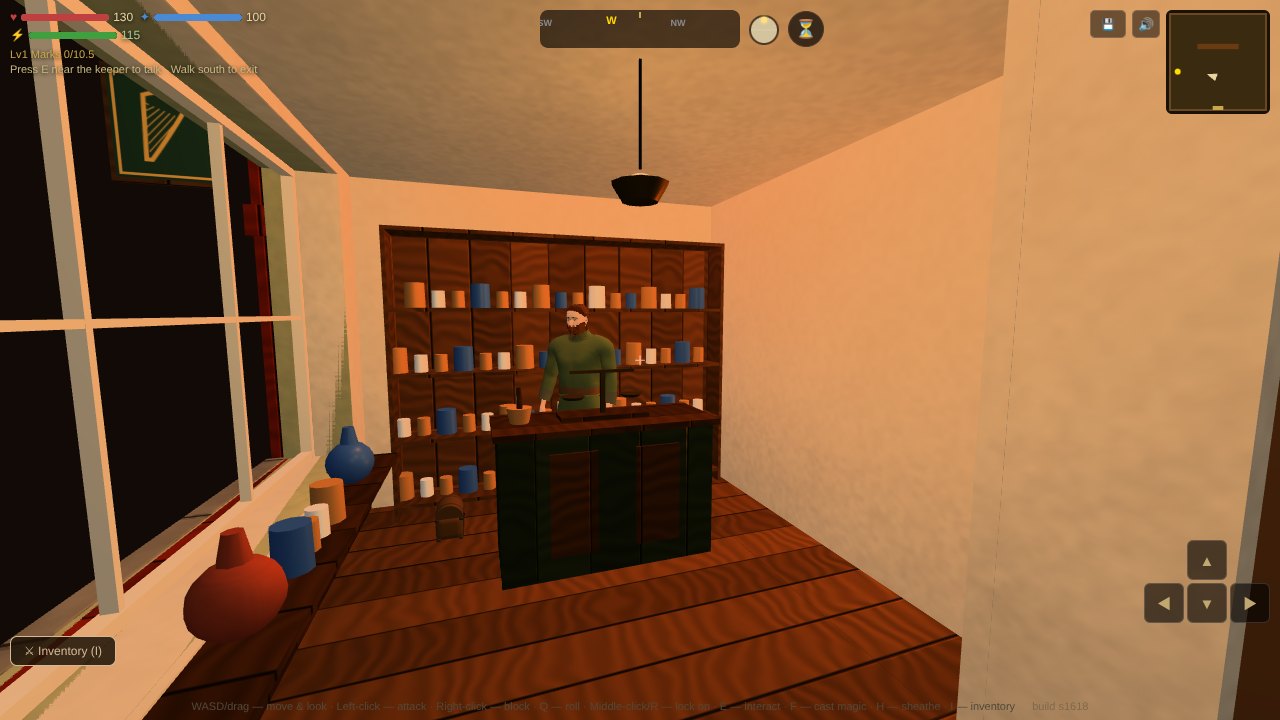
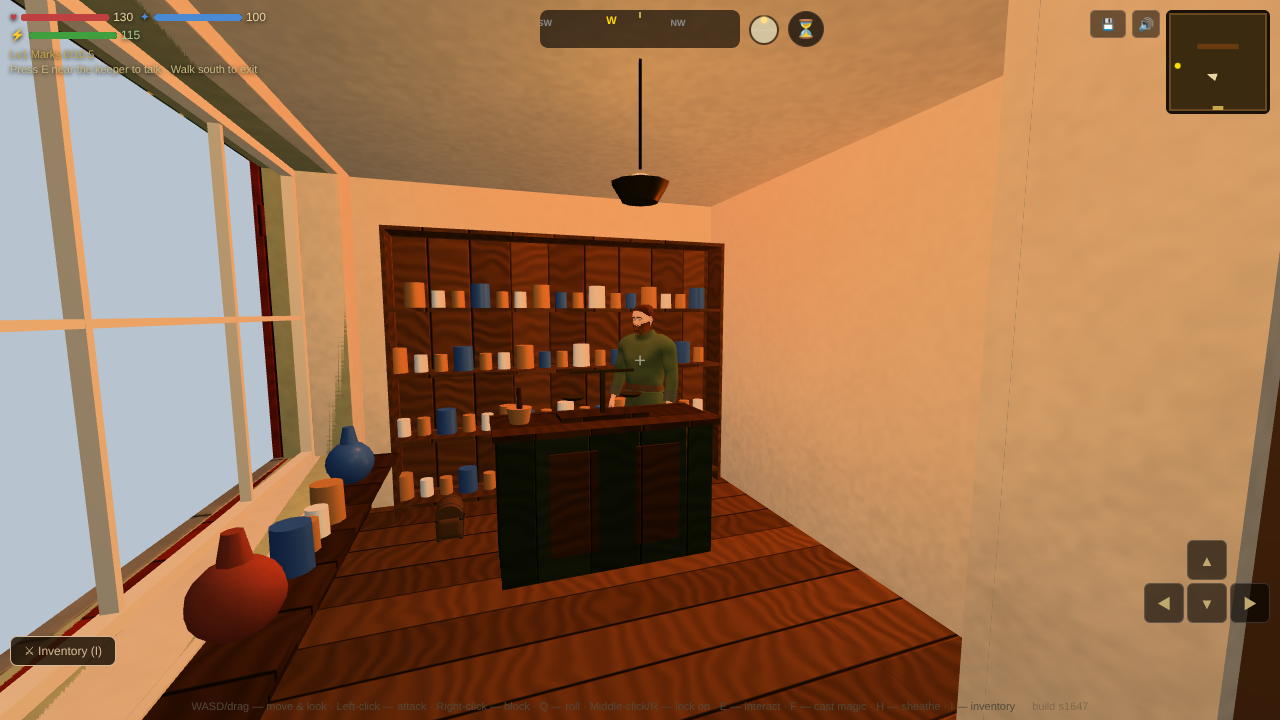
Look S2296: the merchant's shop window shows the day, not the room's black (section I; the critic, s1641)
Claude-Session: https://claude.ai/code/session_019eFMMmKFyi75wjNca6K5ak

Changed region(s): [[0.0, 0.0, 0.2188, 0.9167], [0.4062, 0.4278, 0.5312, 0.5806]]

diff --git a/docs/prototypes/levelup/rooms.js b/docs/prototypes/levelup/rooms.js
@@ -2333,7 +2333,7 @@ export function gatelandsTownhouse(o = {}, r = stream('townhouse')) {
       else { put(new THREE.CylinderGeometry(.24, .21, .7, 14), 'oak', ex + .05, F0 + .35, ez); boxes.push({ tag: 'barrel', x0: ex - .19, x1: ex + .29, y0: F0, y1: F0 + .7, z0: ez - .24, z1: ez + .24, fl: 0 });
         for (const dz of [.55, 1.0].filter(dz => ez + dz + .22 <= zL)) { put(new THREE.SphereGeometry(.24, 10, 7).scale(1, 1.25, .9), 'straw', ex + .06, F0 + .3, ez + dz); boxes.push({ tag: 'sack', x0: ex - .18, x1: ex + .3, y0: F0, y1: F0 + .6, z0: ez + dz - .22, z1: ez + dz + .22, fl: 0 }); } } } }
     lamps.push(lamp(0, (CX1 + XW) / 2, (fz0 + Z) / 2, .55));
-    shopAt = { counter: { x0: CX0, x1: CX1, z0: CZ0, z1: CZ1, y: F0 + CH }, keeper: { x: -X + .72, z: (CZ0 + CZ1) / 2, face: 'x+' }, chest: { x: -X + .72, z: CZ1 + .325 }, front: [CX1 + .5, (CZ0 + CZ1) / 2], window: { x0: wx0, x1: wx1 } }; }
+    shopAt = { counter: { x0: CX0, x1: CX1, z0: CZ0, z1: CZ1, y: F0 + CH }, keeper: { x: -X + .72, z: (CZ0 + CZ1) / 2, face: 'x+' }, chest: { x: -X + .72, z: CZ1 + .325 }, front: [CX1 + .5, (CZ0 + CZ1) / 2], window: { x0: wx0, x1: wx1 }, win: { x: sw.x, y: sw.y, w: sw.w, h: sw.h } /* (Session 2296) the shop window's opening, for the day behind it */ }; }
   press(0, -X + .85, -X + 2.55, kz1 - .45, kz1, 1.0, 'oak', 'dresser', 3, 'delft'); bx('oak', -X + .85, -X + 2.55, F0 + 1.0, F0 + 2.1, kz1 - .03, kz1) /* the dresser's back */;
   const kt = Math.min(0, PX - pt - .05 - (-X + 3.2)) /* (Session 2240) a merchant's west rooms are 0.35 m narrower: the table off the partition */;
   table(0, -X + 2.0 + kt, -X + 3.2 + kt, -Z + .6, -Z + 1.5, .76, 'deal'); for (const x of [-X + 2.3 + kt, -X + 2.9 + kt]) { const z = -Z + 1.8, s2 = { x0: x - .17, x1: x + .17, z0: z - .17, z1: z + .17 }; bx('deal', s2.x0, s2.x1, F0 + .41, F0 + .45, s2.z0, s2.z1, 'stool', 0); for (const ddx of [-.13, .13]) for (const dz of [-.13, .13]) bx('deal', x + ddx - .02, x + ddx + .02, F0, F0 + .41, z + dz - .02, z + dz + .02); }

diff --git a/js/38-kit.js b/js/38-kit.js
@@ -1423,7 +1423,7 @@ function townhouseRoom(o = {}, r = stream('townhouse')) {
       else { put(new THREE.CylinderGeometry(.24, .21, .7, 14), 'oak', ex + .05, F0 + .35, ez); boxes.push({ tag: 'barrel', x0: ex - .19, x1: ex + .29, y0: F0, y1: F0 + .7, z0: ez - .24, z1: ez + .24, fl: 0 });
         for (const dz of [.55, 1.0].filter(dz => ez + dz + .22 <= zL)) { put(new THREE.SphereGeometry(.24, 10, 7).scale(1, 1.25, .9), 'straw', ex + .06, F0 + .3, ez + dz); boxes.push({ tag: 'sack', x0: ex - .18, x1: ex + .3, y0: F0, y1: F0 + .6, z0: ez + dz - .22, z1: ez + dz + .22, fl: 0 }); } } } }
     lamps.push(lamp(0, (CX1 + XW) / 2, (fz0 + Z) / 2, .55));
-    shopAt = { counter: { x0: CX0, x1: CX1, z0: CZ0, z1: CZ1, y: F0 + CH }, keeper: { x: -X + .72, z: (CZ0 + CZ1) / 2, face: 'x+' }, chest: { x: -X + .72, z: CZ1 + .325 }, front: [CX1 + .5, (CZ0 + CZ1) / 2], window: { x0: wx0, x1: wx1 } }; }
+    shopAt = { counter: { x0: CX0, x1: CX1, z0: CZ0, z1: CZ1, y: F0 + CH }, keeper: { x: -X + .72, z: (CZ0 + CZ1) / 2, face: 'x+' }, chest: { x: -X + .72, z: CZ1 + .325 }, front: [CX1 + .5, (CZ0 + CZ1) / 2], window: { x0: wx0, x1: wx1 }, win: { x: sw.x, y: sw.y, w: sw.w, h: sw.h } /* (Session 2296) the shop window's opening, for the day behind it */ }; }
   press(0, -X + .85, -X + 2.55, kz1 - .45, kz1, 1.0, 'oak', 'dresser', 3, 'delft'); bx('oak', -X + .85, -X + 2.55, F0 + 1.0, F0 + 2.1, kz1 - .03, kz1) /* the dresser's back */;
   const kt = Math.min(0, PX - pt - .05 - (-X + 3.2)) /* (Session 2240) a merchant's west rooms are 0.35 m narrower: the table off the partition */;
   table(0, -X + 2.0 + kt, -X + 3.2 + kt, -Z + .6, -Z + 1.5, .76, 'deal'); for (const x of [-X + 2.3 + kt, -X + 2.9 + kt]) { const z = -Z + 1.8, s2 = { x0: x - .17, x1: x + .17, z0: z - .17, z1: z + .17 }; bx('deal', s2.x0, s2.x1, F0 + .41, F0 + .45, s2.z0, s2.z1, 'stool', 0); for (const ddx of [-.13, .13]) for (const dz of [-.13, .13]) bx('deal', x + ddx - .02, x + ddx + .02, F0, F0 + .41, z + dz - .02, z + dz + .02); }

diff --git a/js/83-world-generator.js b/js/83-world-generator.js
@@ -2462,7 +2462,7 @@ function shellFrame(sc_,o){const {W,D,H,type,st,wallKind,FN,FSEED,beams,wins,TAL
     {const hr=typeof gameHour==='function'?gameHour():12,day=hr>=7&&hr<18?0xc4d0dc:hr>=5&&hr<20?0x8a7a7a:0x0e1420,M=new THREE.MeshBasicMaterial({color:day}),hd=T.d/2+.08;
       const P=[],out=(x,y,z,w,h,a)=>{const g=new THREE.PlaneGeometry(w+.1,h+.1).toNonIndexed();g.rotateY(a);g.translate(rx(x),ry(y+h/2),rz(z));P.push(g.attributes.position.array);g.dispose();};
       for(const q of T.windows)out(q.x,q.y,q.face==='front'?hd:-hd,q.w,q.h,q.face==='front'?Math.PI:0);
-      out(T.door.x,F0,hd,T.door.w,T.door.h,Math.PI);out(T.back.x,F0,-hd,T.back.w,T.back.h,0);
+      if(S&&S.win)out(S.win.x,S.win.y,hd,S.win.w,S.win.h,Math.PI) /* (Session 2296) the shop window too: it was left black (the critic, s1641) */;out(T.door.x,F0,hd,T.door.w,T.door.h,Math.PI);out(T.back.x,F0,-hd,T.back.w,T.back.h,0);
       const A=new Float32Array(P.reduce((n,a)=>n+a.length,0));let o=0;for(const a of P){A.set(a,o);o+=a.length;}
       const g=new THREE.BufferGeometry();g.setAttribute('position',new THREE.BufferAttribute(A,3));const m=new THREE.Mesh(g,M);m.userData.daylight=true;sc_.add(m);}
     // the light: the three fires (the kitchen's range, the drawing room's and the dining room's grates; the shop keeps none), the lamps

diff --git a/docs/backlog.md b/docs/backlog.md
@@ -640,7 +640,7 @@ The blocky look is inherited, not chosen: ~790 `BoxGeometry` and ~520 cylinders/
 - ~~**s1623 — the Hearthwick–Droichead road runs through the Old Garrison's wall** (the bodies builder, Slack, 15 Nov: `solidAt` true at 13163, 25321; every road traveller walked into it)~~ — **fixed, Session 2274** (`tests/tiermap`): the pad pushes had set the fort's ring 25 m from its own road's line; `homeFortClear` (82, asked by `placeDoor` and `doorSpot`) keeps a home fort's ring 41 m from every home road, moving the Old Garrison to 13309, 25380 and the Last Post 12 m; the other six stand where they stood.
 - **s1641 — a pilgrim walks the sea bed to her shrine** (critic 16 Nov; for the systems builder, `pilgrimPlan`/`pilgrimAt` in `js/87-world-quests.js`): the leg off the road runs straight to the goal over anything. Ashfeld–Redwater Ford road, pilgrim `road:ashfeld|redwater_ford:4:1` bound for the Shrine of Cluainnagh (13126, 27266), 1,371 m off the road: 213 of 343 points on her line are under the sea, and at 17:48 on day 4 she is drawn at (12960, 26428), y −8.00, on the bed. The Shrine of Kilshane's leg too (200 of 327).
 - **s1641 — the road's people walk inside a bridge, and on through a bridge down** (critic 16 Nov; for the systems builder, `tickRoadfolk` in `js/87-world-quests.js`, which stands them at `worldH`, the causeway): a merchant at the middle of `bridge_5,10_23` (Carraig Mór–Salthaven) stands 1.78 m under the setts; an official on `bridge_5,10_26` (the North Approach) 5.75 m under. S2288 gave the player the deck (`ZONES.world.platforms`); the travellers need it too. On `bridge_6,9_25` while it is down, a merchant walks through the gap at y 0.6, where S2284's coach stops at the bank. The deck half is in flight as S2292's `roadY` (PR #1637, not on main at s1641); the gap half is not.
-- **s1641 — the merchant's house's shop window is black by day** (critic 16 Nov; for the look builder, the merchant's rooms, `kitMerchant` in `js/83-world-generator.js`): the panes are glass at 14% opacity in front of the room's black background, so the street wall reads as night at 11:00 (Clodagh's Goods), 12:00 (Bríd's Armoury) and 15:00 (Cathal's Apothecary) in Dunmore; a cottage's window in the same town at noon is pale. Picture: `docs/critic/2026-11-16-dunmore-goods-black-window.jpg`.
+- ~~**s1641 — the merchant's house's shop window is black by day** (critic 16 Nov; for the look builder, the merchant's rooms, `kitMerchant` in `js/83-world-generator.js`): the panes are glass at 14% opacity in front of the room's black background, so the street wall reads as night at 11:00 (Clodagh's Goods), 12:00 (Bríd's Armoury) and 15:00 (Cathal's Apothecary) in Dunmore; a cottage's window in the same town at noon is pale. Picture: `docs/critic/2026-11-16-dunmore-goods-black-window.jpg`.~~ — done, Session 2296 (the shop window, kind `shopwin`, was left out of the room's `windows`, so no day was hung behind it; the room's `shop` record now carries it as `win` and `buildKitMerchant` hangs the day there; `kitmerchant` 1/1)
 - **s1641 — the road's people greet and part with the town's lines** (critic 16 Nov, low; for the systems builder, the road's `makeDef` calls in `js/87-world-quests.js`): a rider: *A face from home. Come in out of it.* (the kin pool's `gatelander` row); a pilgrim's goodbye: *Mind the door.* (the gruff `bye`); a family from a burned town: *You've the look of home about you.* Lines for someone at their own door.
 
 ## J. Design proposals wanted (Michael, 27 Sep 2026)

diff --git a/docs/devlog/2296.md b/docs/devlog/2296.md
@@ -1,0 +1,28 @@
+## v80 — Session 2296 — the merchant's shop window shows the day (section I; the critic, s1641)
+The look builder's run of 16 Nov, started 13:30 UTC, on `auto/look-2296`. No `FREEZE:` issue was open, and the last look branch (2293)
+had its last commit two and a half hours before. Section I held one item for this lane: the critic's s1641 note that the merchant's
+house's shop window is black by day in Dunmore (Clodagh's Goods at 11:00, Bríd's Armoury at 12:00, Cathal's Apothecary at 15:00),
+while a cottage's window in the same town at noon is pale. DECISION #1632 (the Mark's trader's hall) is still unanswered.
+
+**What was wrong.** Inside a kit room the panes are the clear `pane` material (14% opacity), and the day is a flat plane hung just
+outside each opening, coloured by the hour (`userData.daylight`). `buildKitMerchant` (`js/83-world-generator.js`) hangs those planes
+behind `T.windows`, the shop door and the back door. But `townhouseRoom` (`js/38-kit.js`, and `rooms.js`'s copy) builds `windows`
+from the openings of kind `win` only, so the shop's window, kind `shopwin`, got no plane, and its 2.05 m of glass from the sill to the
+lintel showed the room's background, `0x120a06`.
+
+**What changed.** The room's `shop` record (`shopAt`) now carries the shop window's opening, `win: { x, y, w, h }`, in the kit and in
+the prototype alike (the two copies still match line for line). `buildKitMerchant` hangs the day's plane behind it with the others.
+`windows` itself is unchanged, so the townhouse's checks that count windows, or that look for tall pieces across a window, read as
+before. Nothing is added to the scene's draws: the day's planes are one merged mesh.
+
+### Verified (headless Chromium)
+- `kitmerchant` 1/1: the four trades in Dunmore still build as the prototype, walled all round, 57 draws of 60 and 11 lights.
+- `rooms.check.mjs` 283/283.
+- A throwaway check (`tests/tmp/`) stood 1.4 m inside each of Dunmore's four merchant's shops at 11:00, facing the window. The panes
+  read pale grey-blue (`0xc4d0dc` through the glass), where the critic's s1641 picture had them black. The 5-bay shops' window is
+  6.9 m by 2.05 m, and the 3-bay apothecary's is 3 m. Picture: `docs/prototypes/kit-merchant-window-day.png`.
+
+### Needs eyes
+- The day beyond is a flat colour, as in every kit room: no street is drawn through the glass. Across a 6.9 m window it reads as fog,
+  not as Dunmore. A street seen through a shop window would be a new look, and so a question first.
+- At dusk (5–7 and 18–20) the plane is `0x8a7a7a`, and at night `0x0e1420`, the same as the room's other windows.
